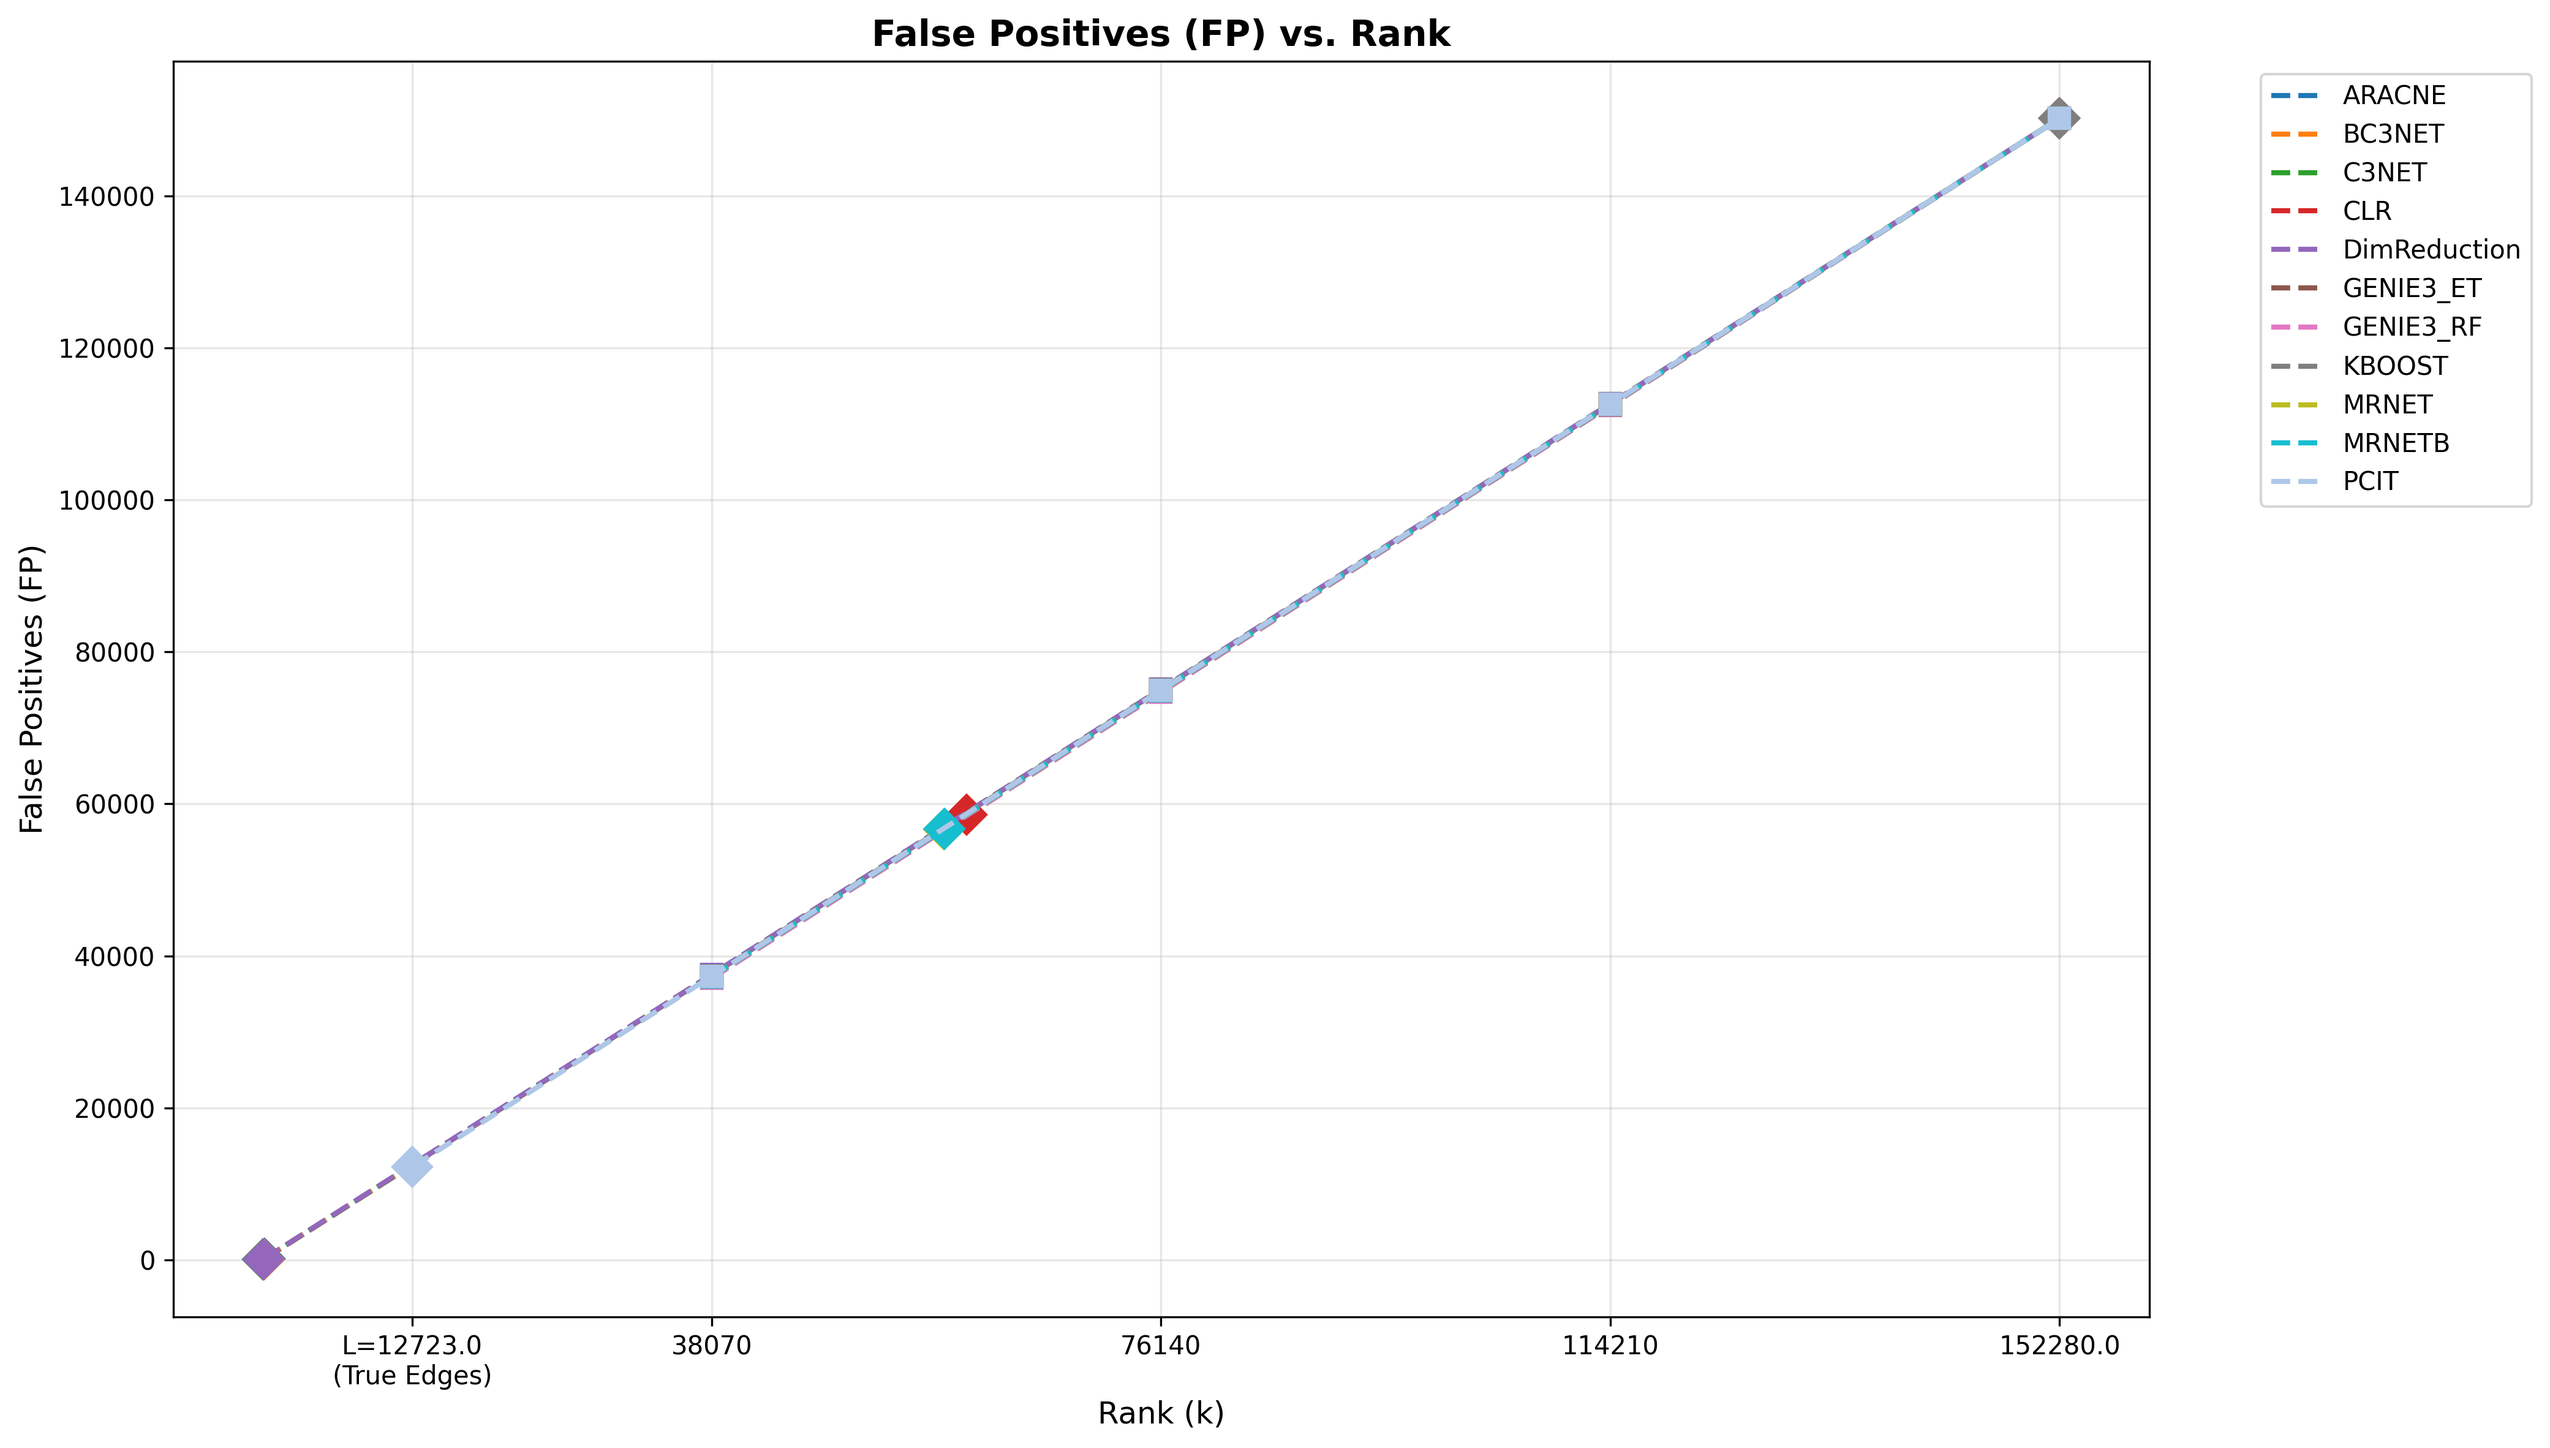
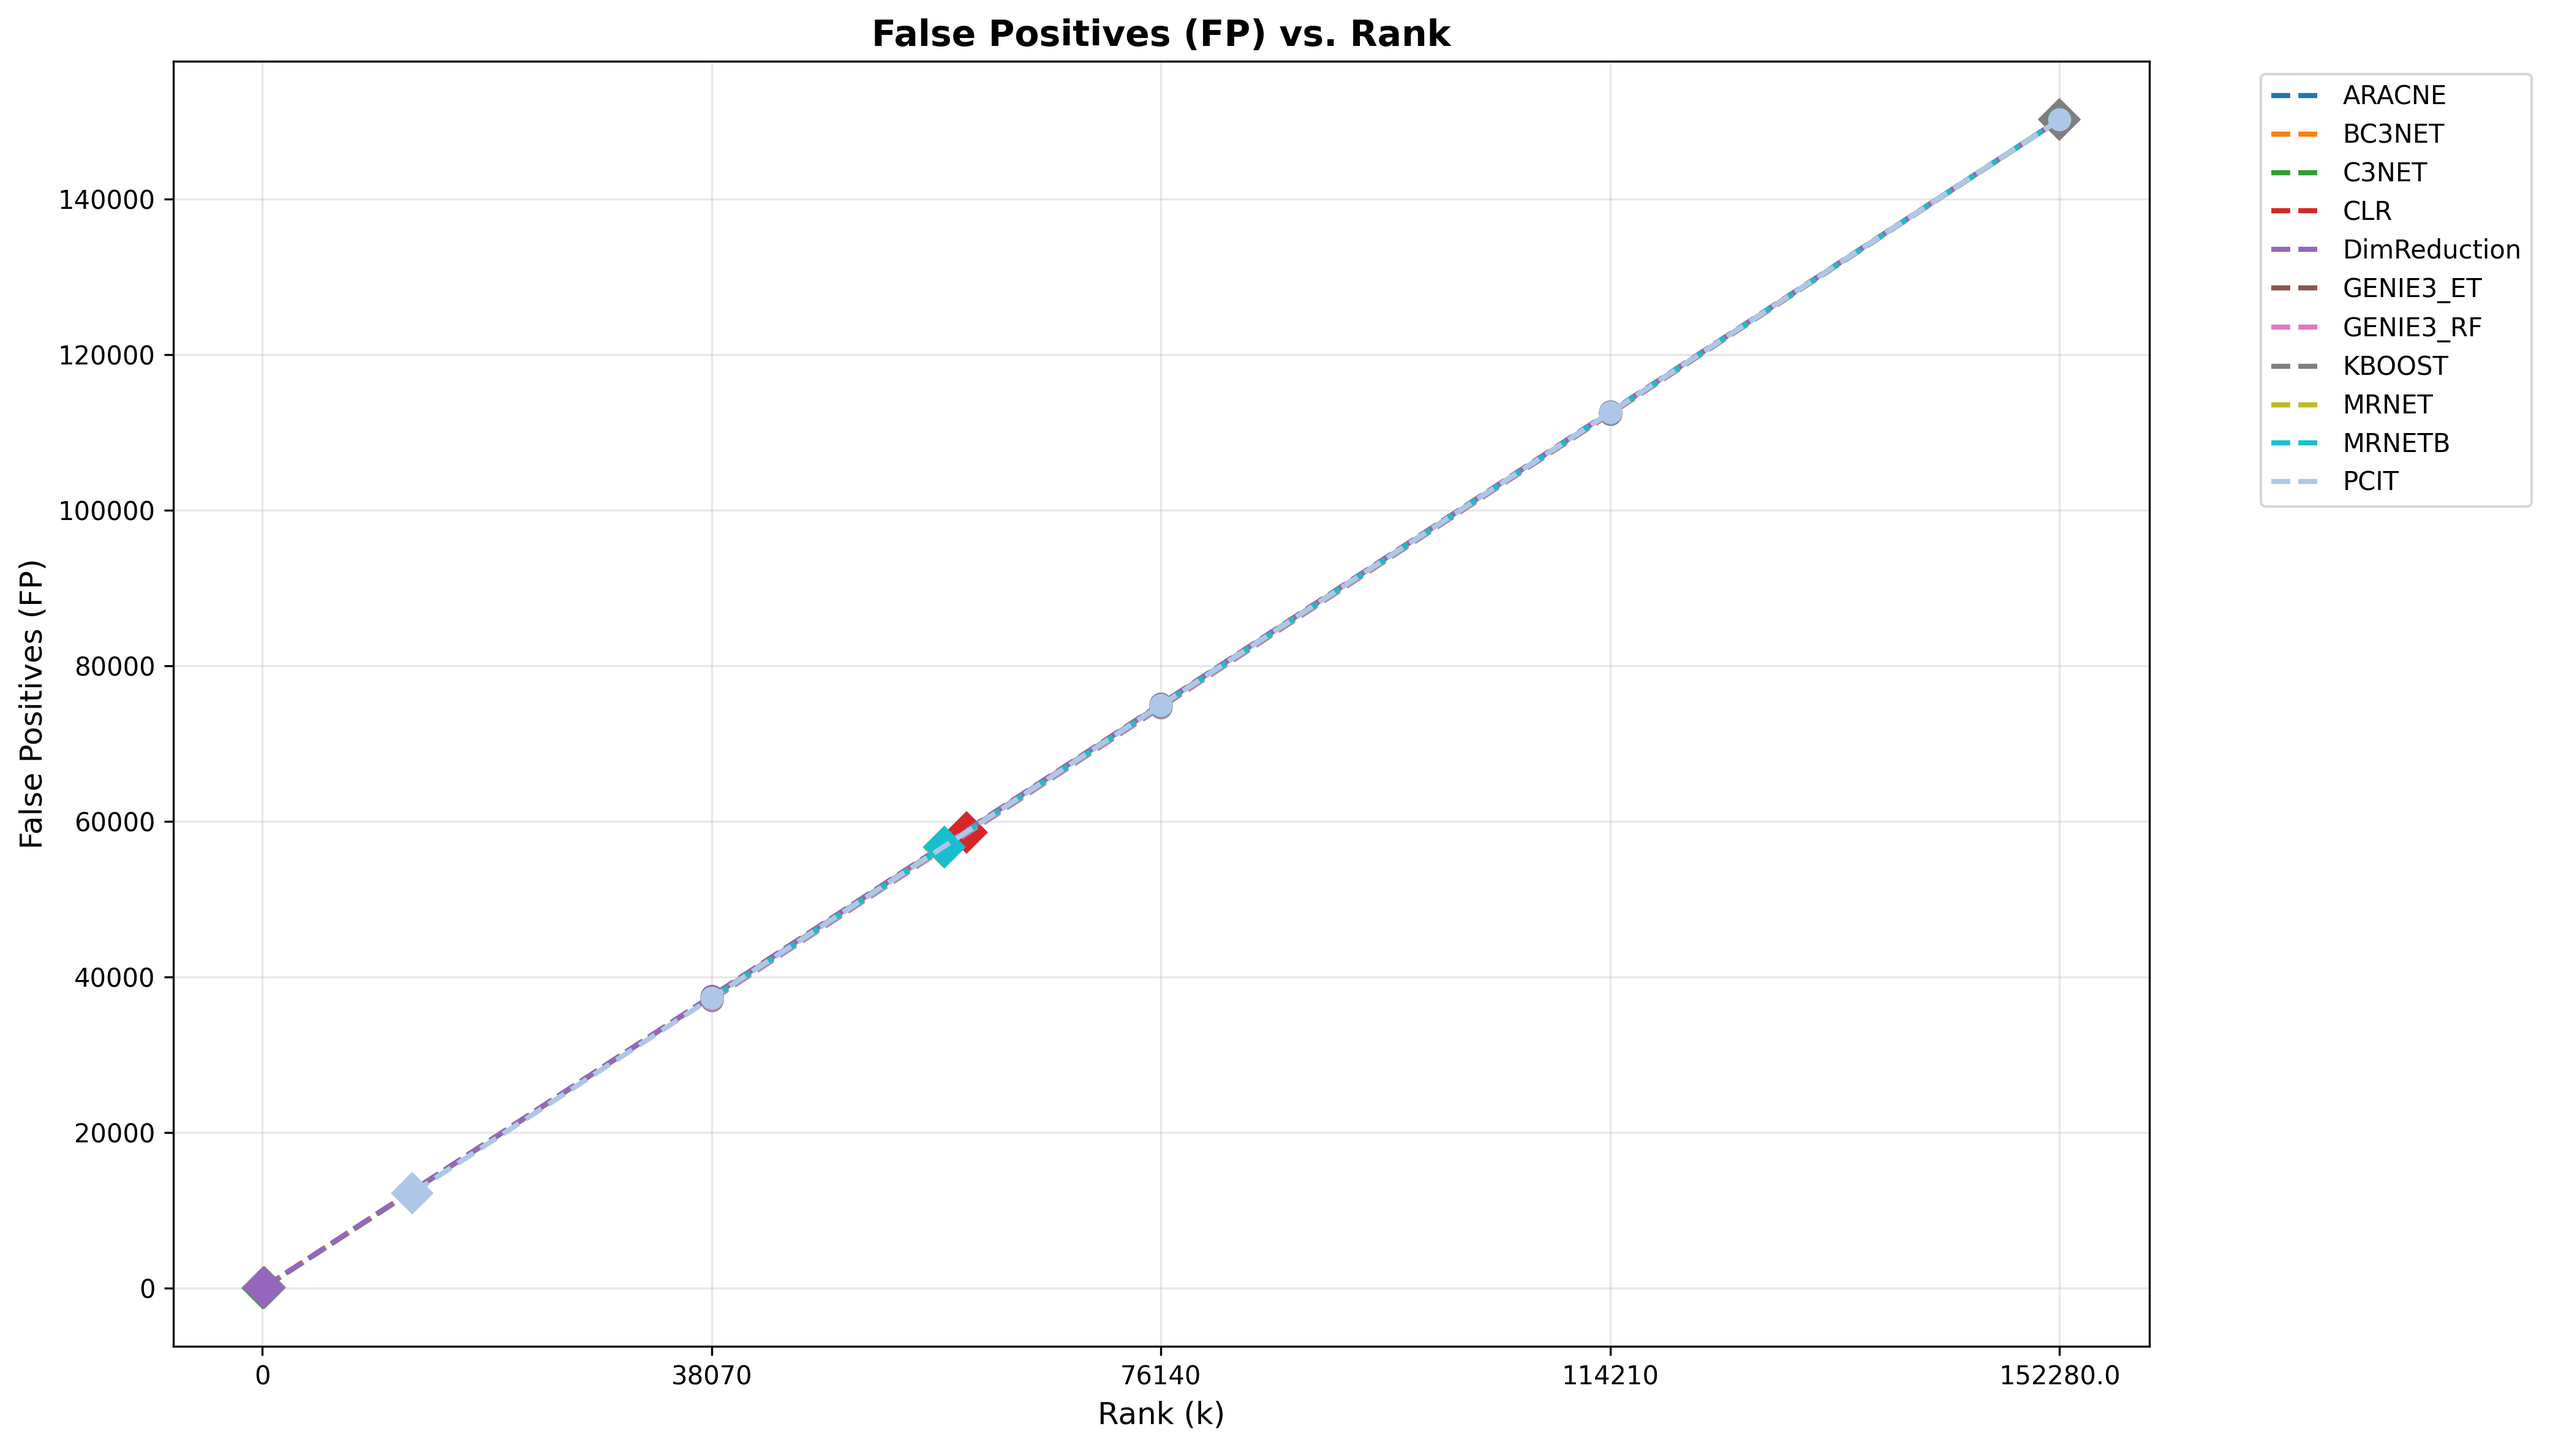
fix markers

diff --git a/scripts/evaluation_analyzer_2.py b/scripts/evaluation_analyzer_2.py
@@ -504,7 +504,7 @@ class EvaluationAnalyzer:
                 ranks_to_plot = sorted(list(set([L] + [round(T/4), round(T/2), round(3*T/4), T])))
                 
                 tps = []
-                rank_labels = []
+                rank_labels = sorted(list(set([0] + [round(T/4), round(T/2), round(3*T/4), T])))
                 
                 for k in ranks_to_plot:
                     # Find the closest rank in the data
@@ -518,12 +518,6 @@ class EvaluationAnalyzer:
                     tpr = rank_data['tpr'].iloc[0]
                     TP = tpr * P
                     tps.append(TP)
-                    
-                    # Create label with special marker for L
-                    if k == L:
-                        rank_labels.append(f'L={k}\n(True Edges)')
-                    else:
-                        rank_labels.append(str(k))
 
                 color = self.color_palette[i % len(self.color_palette)]
                 
@@ -547,18 +541,6 @@ class EvaluationAnalyzer:
                         
                         plt.plot(rank, tp, marker=marker, color=color, markersize=markersize,
                                 markeredgewidth=markeredgewidth, markeredgecolor=markeredgecolor)
-                        
-                        # # Add value annotation with offset to prevent overlapping
-                        # offset_direction = 1 if (i % 2 == 0) else -1  # Alternate above/below
-                        # vertical_offset = offset_direction * (0.02 * max(tps) + 0.01 * max(tps) * (i % 3))
-                        
-                        # plt.annotate(f'{tp:.1f}', 
-                        #             xy=(rank, tp),
-                        #             xytext=(0, vertical_offset),
-                        #             textcoords='offset points',
-                        #             ha='center', va='bottom' if offset_direction == 1 else 'top',
-                        #             fontsize=9, fontweight='bold',
-                        #             bbox=dict(boxstyle="round,pad=0.2", facecolor='white', alpha=0.8, edgecolor='none'))
 
             plt.xlabel('Rank (k)', fontsize=12)
             plt.ylabel('True Positives (TP)', fontsize=12)
@@ -567,7 +549,7 @@ class EvaluationAnalyzer:
             plt.grid(True, alpha=0.3)
             
             # Set x-axis labels
-            plt.xticks(ranks_to_plot, rank_labels, rotation=0)
+            plt.xticks(rank_labels, rank_labels, rotation=0)
             
             plt.tight_layout()
 
@@ -613,7 +595,7 @@ class EvaluationAnalyzer:
                 ranks_to_plot = sorted(list(set([L] + [round(T/4), round(T/2), round(3*T/4), T])))
                 
                 fps = []
-                rank_labels = []
+                rank_labels = sorted(list(set([0] + [round(T/4), round(T/2), round(3*T/4), T])))
                 
                 for k in ranks_to_plot:
                     # Find the closest rank in the data
@@ -621,18 +603,11 @@ class EvaluationAnalyzer:
                     
                     if rank_data.empty:
                         fps.append(np.nan)
-                        rank_labels.append(str(k))
                         continue
 
                     fpr = rank_data['fpr'].iloc[0]
                     FP = fpr * N
                     fps.append(FP)
-                    
-                    # Create label with special marker for L
-                    if k == L:
-                        rank_labels.append(f'L={k}\n(True Edges)')
-                    else:
-                        rank_labels.append(str(k))
 
                 color = self.color_palette[i % len(self.color_palette)]
                 
@@ -649,26 +624,13 @@ class EvaluationAnalyzer:
                             markeredgewidth = 2
                             markeredgecolor = color
                         else:
-                            marker = 's'  # Square for other points (different from TP plot)
+                            marker = 'o'  # Circle for other points
                             markersize = 8
                             markeredgewidth = 1
                             markeredgecolor = color
                         
                         plt.plot(rank, fp, marker=marker, color=color, markersize=markersize,
                                 markeredgewidth=markeredgewidth, markeredgecolor=markeredgecolor)
-                        
-                        # # Add value annotation with offset to prevent overlapping
-                        # offset_direction = 1 if (i % 2 == 0) else -1  # Alternate above/below
-                        # vertical_offset = offset_direction * (0.02 * max([f for f in fps if not np.isnan(f)]) + 
-                        #                                     0.01 * max([f for f in fps if not np.isnan(f)]) * (i % 3))
-                        
-                        # plt.annotate(f'{fp:.1f}', 
-                        #             xy=(rank, fp),
-                        #             xytext=(0, vertical_offset),
-                        #             textcoords='offset points',
-                        #             ha='center', va='bottom' if offset_direction == 1 else 'top',
-                        #             fontsize=9, fontweight='bold',
-                        #             bbox=dict(boxstyle="round,pad=0.2", facecolor='white', alpha=0.8, edgecolor='none'))
 
             plt.xlabel('Rank (k)', fontsize=12)
             plt.ylabel('False Positives (FP)', fontsize=12)
@@ -677,7 +639,7 @@ class EvaluationAnalyzer:
             plt.grid(True, alpha=0.3)
             
             # Set x-axis labels
-            plt.xticks(ranks_to_plot, rank_labels, rotation=0)
+            plt.xticks(rank_labels, rank_labels, rotation=0)
             
             plt.tight_layout()
 
